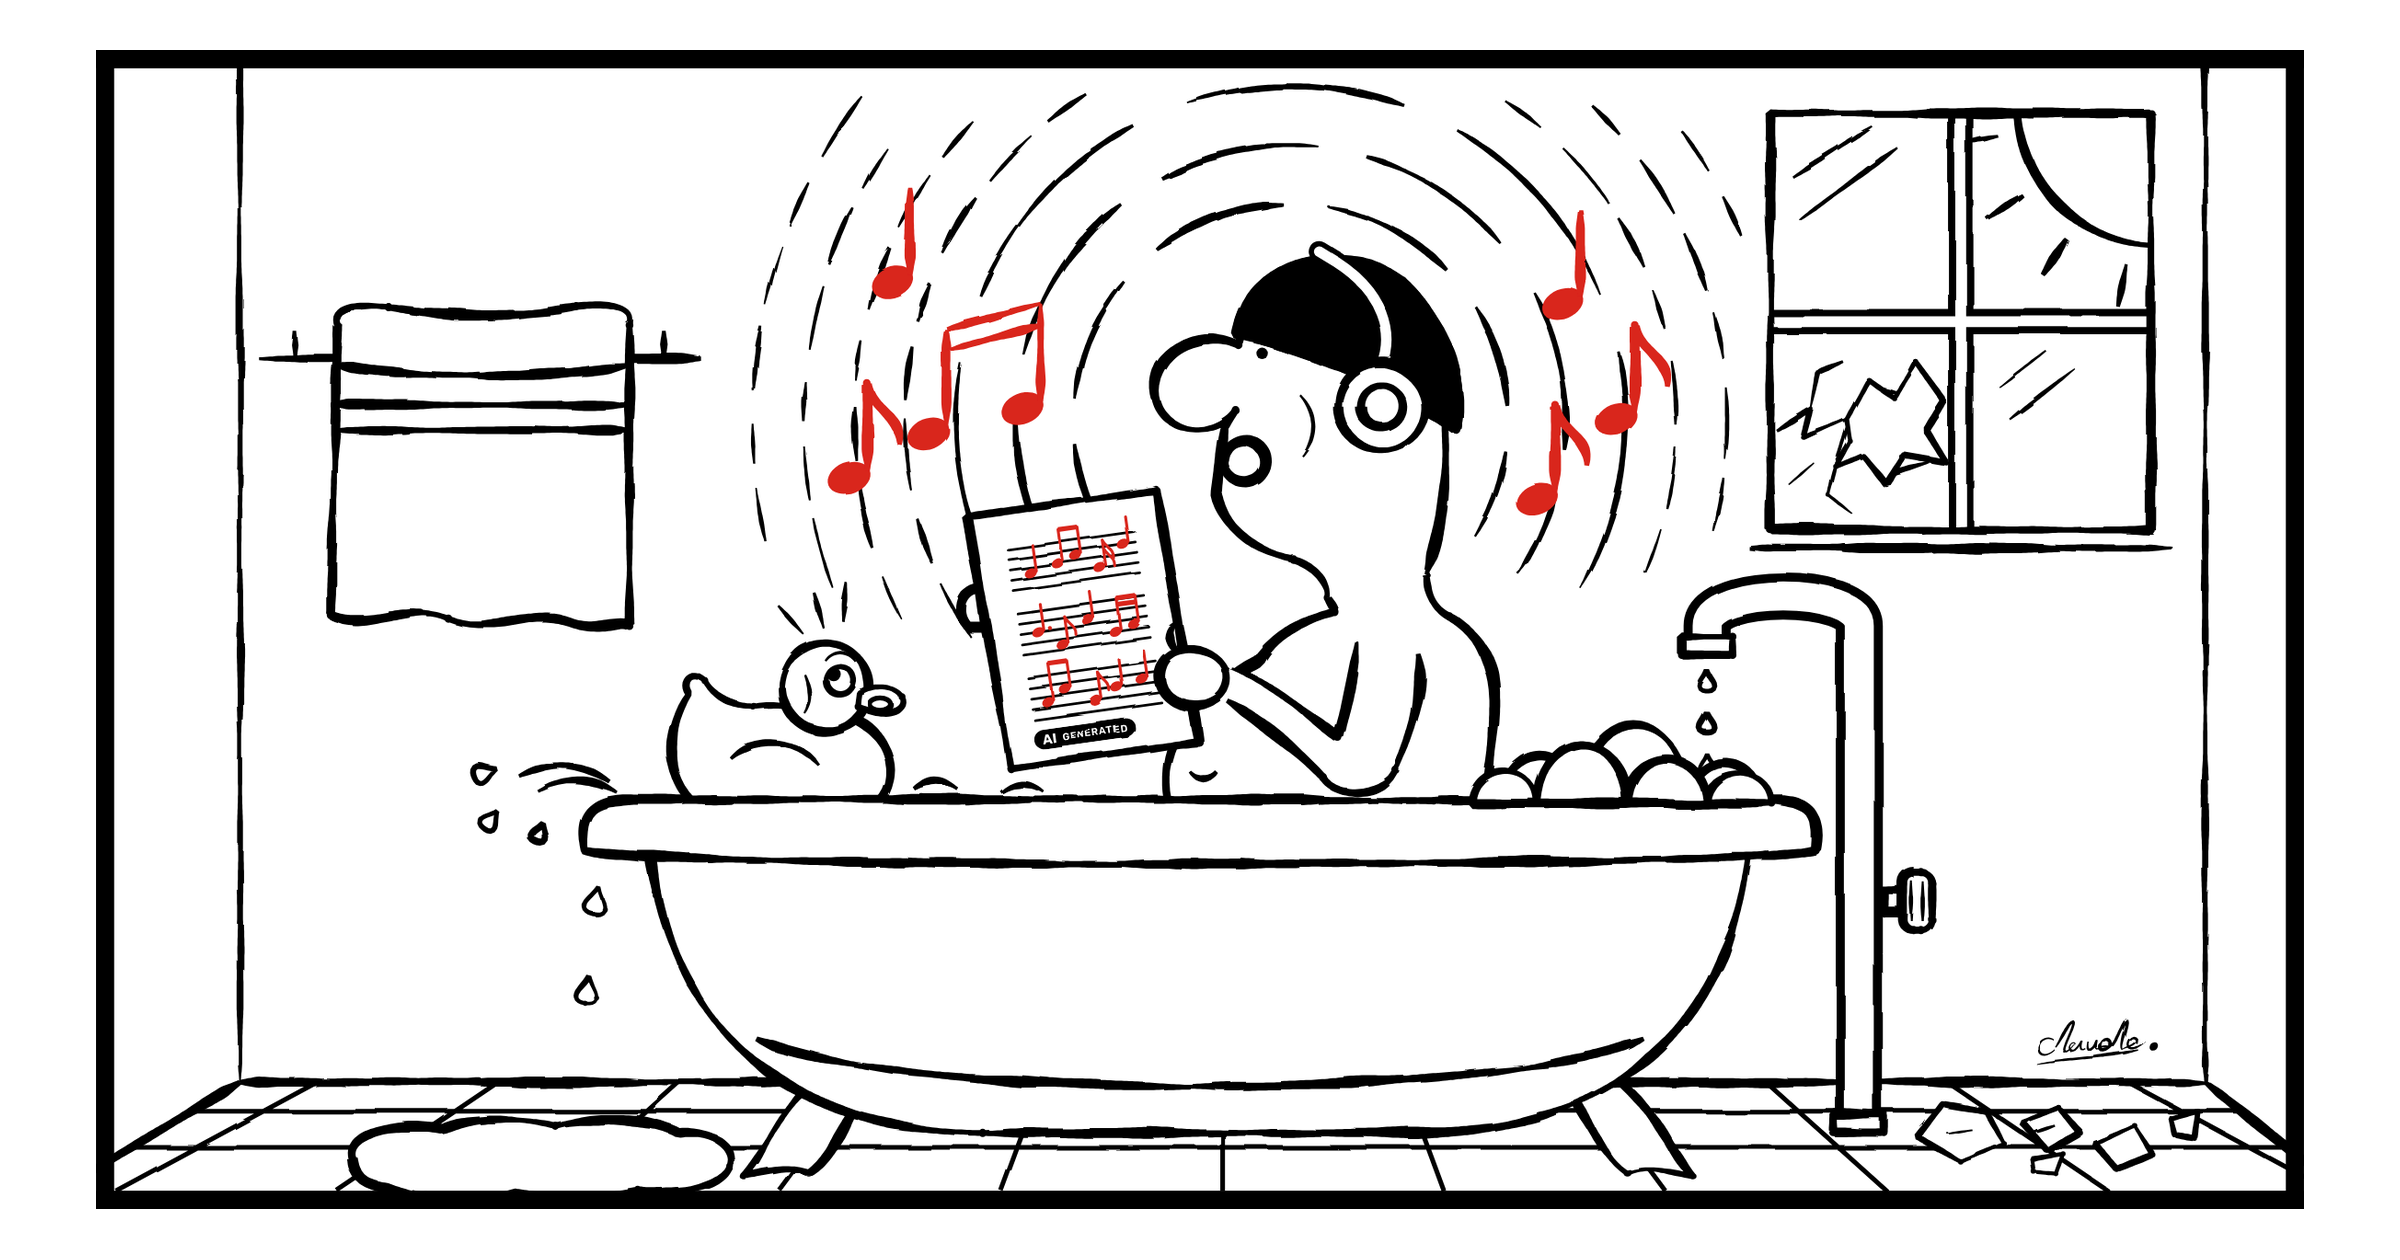
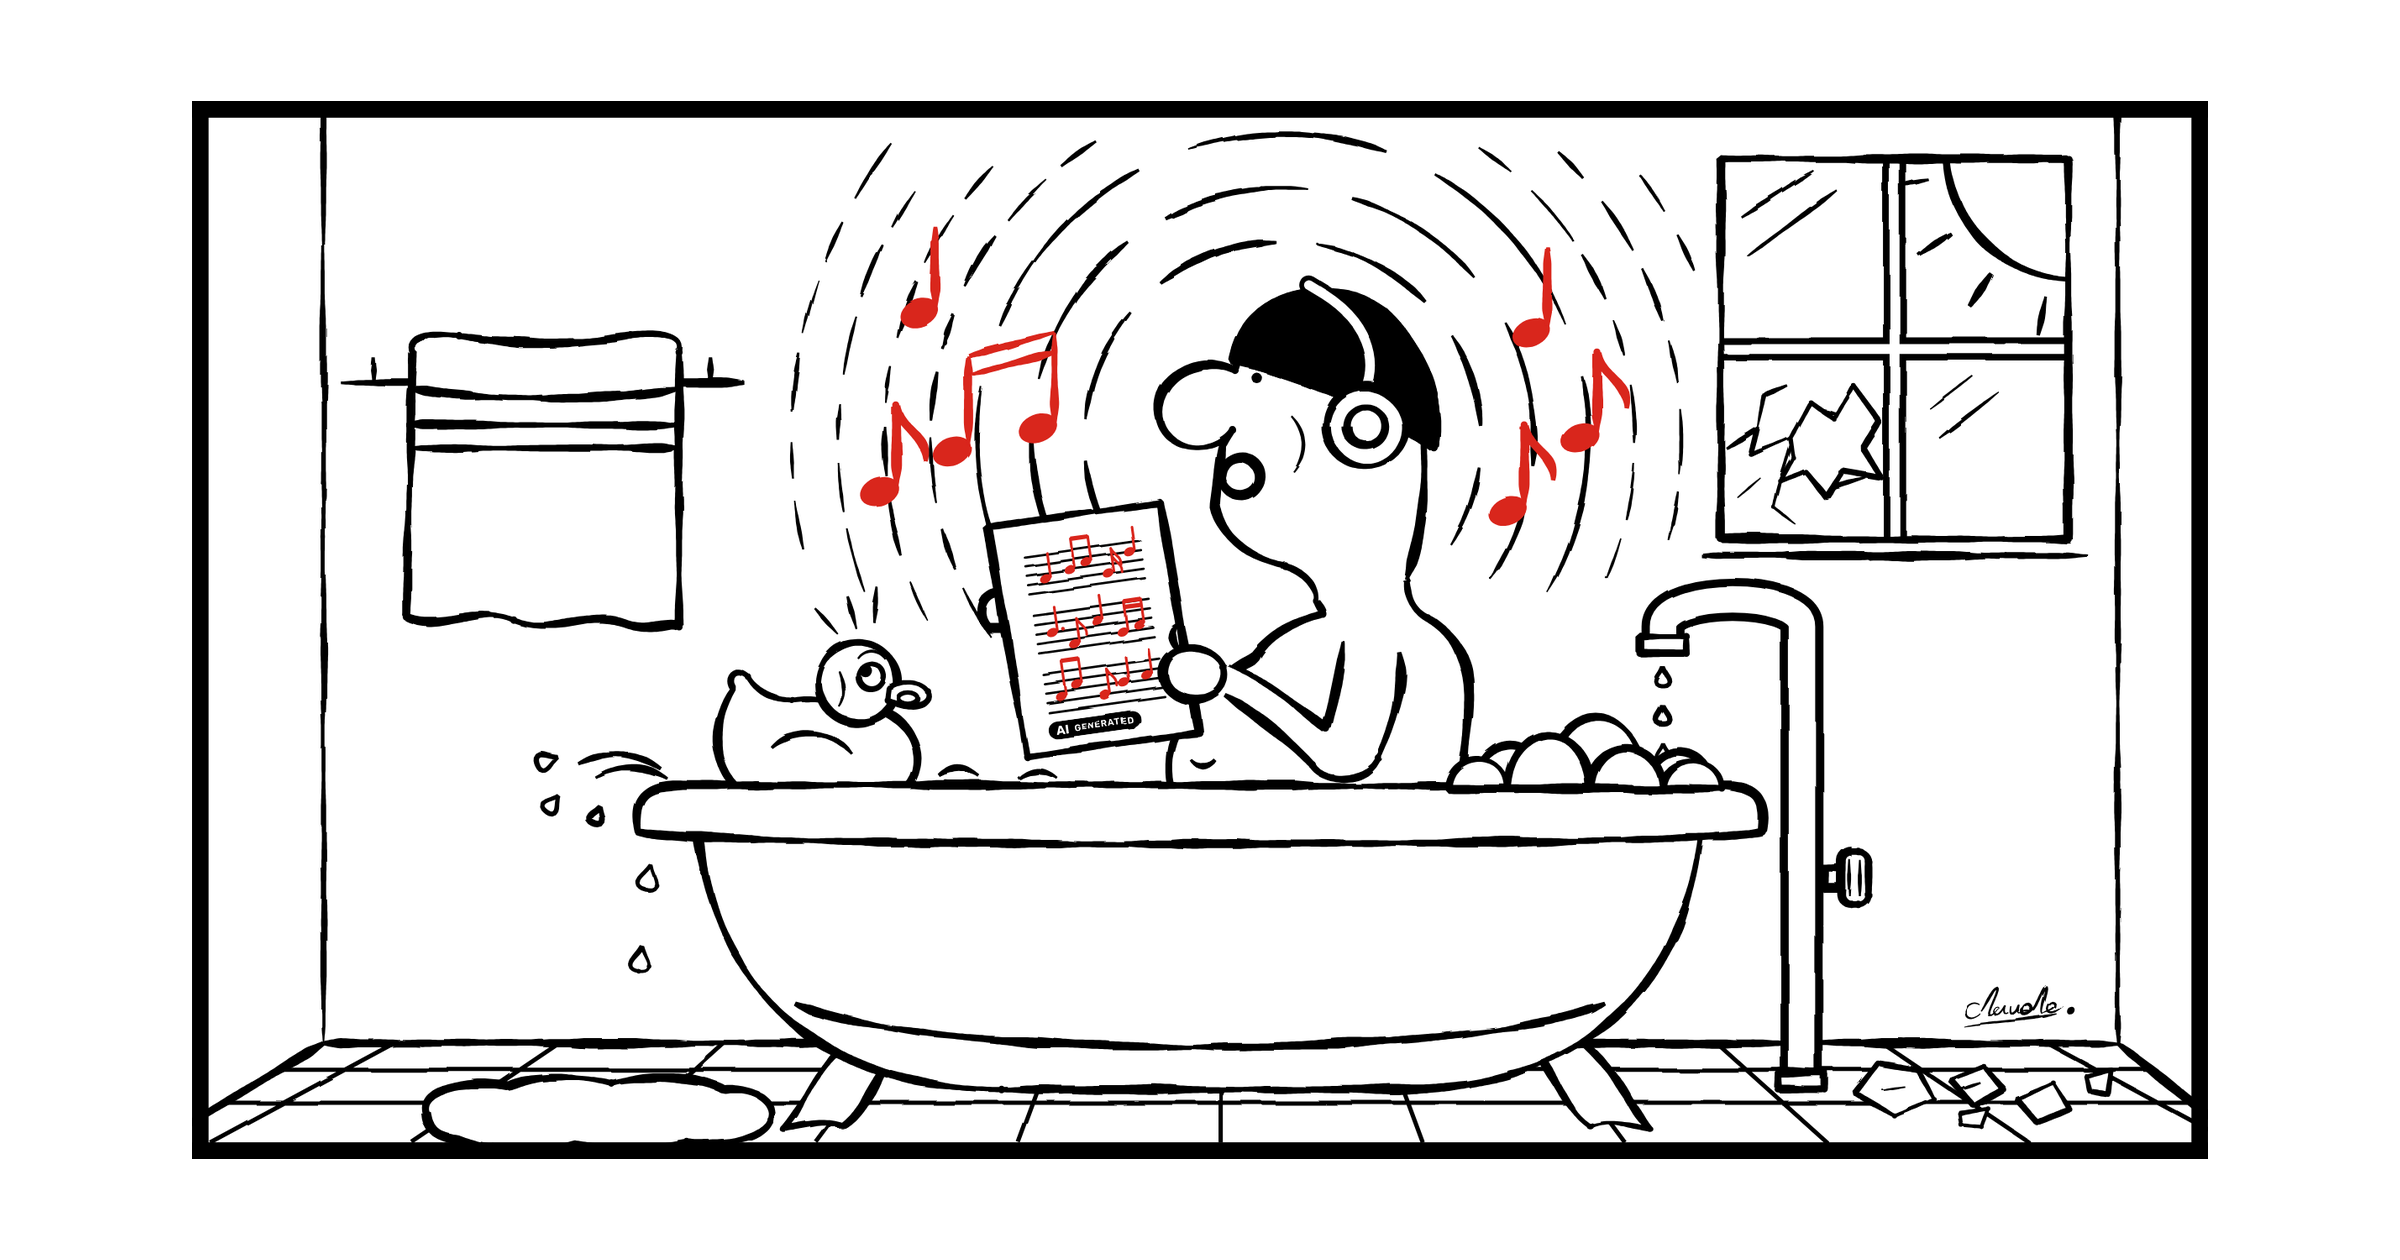
Link preview: wider white margin (84 %)

Changed region(s): [[0.0312, 0.031, 0.9688, 0.9595]]

diff --git a/docs/de/index.html b/docs/de/index.html
@@ -17,7 +17,7 @@
 <meta property="og:url" content="https://choir-practice-skill.pages.dev/de/">
 <meta property="og:locale" content="de_DE">
 <meta property="og:locale:alternate" content="en_US">
-<meta property="og:image" content="https://choir-practice-skill.pages.dev/img/og.png?v=ada567d1">
+<meta property="og:image" content="https://choir-practice-skill.pages.dev/img/og.png?v=a8352f46">
 <meta property="og:image:type" content="image/png">
 <meta property="og:image:width" content="2400">
 <meta property="og:image:height" content="1260">
@@ -25,7 +25,7 @@
 <meta name="twitter:card" content="summary_large_image">
 <meta name="twitter:title" content="choir-practice Skill – Deine Chorstimme. Deine Noten. Überall lesen, hören und singen.">
 <meta name="twitter:description" content="Dokumentation eines agentischen KI-Musik-Workflows und -Skills entwickelt für und mit Claude Code als privates Code-Experiment. Es ist nur ein „Proof of Concept“. Aus Chornoten entsteht ein „KI-geprüftes“ ZIP, in dem sich für jede Stimme 10 Aufnahmen zum Üben befinden.">
-<meta name="twitter:image" content="https://choir-practice-skill.pages.dev/img/og.png?v=ada567d1">
+<meta name="twitter:image" content="https://choir-practice-skill.pages.dev/img/og.png?v=a8352f46">
 <meta name="twitter:image:alt" content="Ein Mann mit Kopfhörern steht in einer alten Badewanne und singt vom Notenblatt, neben ihm schwimmt eine Quietscheente, rote Noten schweben im Raum">
 <link rel="icon" href="../img/favicon.svg?v=3c3022a9" type="image/svg+xml">
 <link rel="icon" href="../favicon.ico" sizes="32x32">
@@ -48,7 +48,7 @@
  "operatingSystem": "Claude (skill)",
  "image": {
   "@type": "ImageObject",
-  "url": "https://choir-practice-skill.pages.dev/img/og.png?v=ada567d1",
+  "url": "https://choir-practice-skill.pages.dev/img/og.png?v=a8352f46",
   "width": 2400,
   "height": 1260,
   "caption": "Ein Mann mit Kopfhörern steht in einer alten Badewanne und singt vom Notenblatt, neben ihm schwimmt eine Quietscheente, rote Noten schweben im Raum"

diff --git a/docs/en/index.html b/docs/en/index.html
@@ -17,7 +17,7 @@
 <meta property="og:url" content="https://choir-practice-skill.pages.dev/en/">
 <meta property="og:locale" content="en_US">
 <meta property="og:locale:alternate" content="de_DE">
-<meta property="og:image" content="https://choir-practice-skill.pages.dev/img/og.png?v=ada567d1">
+<meta property="og:image" content="https://choir-practice-skill.pages.dev/img/og.png?v=a8352f46">
 <meta property="og:image:type" content="image/png">
 <meta property="og:image:width" content="2400">
 <meta property="og:image:height" content="1260">
@@ -25,7 +25,7 @@
 <meta name="twitter:card" content="summary_large_image">
 <meta name="twitter:title" content="choir-practice Skill – Your voice. Your sheet music. Read, listen, and sing anywhere.">
 <meta name="twitter:description" content="Documentation of an agentic AI music workflow and skill developed for and with Claude Code as a private code experiment. It is only a “proof of concept”. A choir score goes in, and an “AI-checked” ZIP comes out with 10 practice recordings for every voice.">
-<meta name="twitter:image" content="https://choir-practice-skill.pages.dev/img/og.png?v=ada567d1">
+<meta name="twitter:image" content="https://choir-practice-skill.pages.dev/img/og.png?v=a8352f46">
 <meta name="twitter:image:alt" content="A man with headphones stands in an old bathtub and sings from a sheet of music, a rubber duck floats beside him, red notes drift through the room">
 <link rel="icon" href="../img/favicon.svg?v=3c3022a9" type="image/svg+xml">
 <link rel="icon" href="../favicon.ico" sizes="32x32">
@@ -48,7 +48,7 @@
  "operatingSystem": "Claude (skill)",
  "image": {
   "@type": "ImageObject",
-  "url": "https://choir-practice-skill.pages.dev/img/og.png?v=ada567d1",
+  "url": "https://choir-practice-skill.pages.dev/img/og.png?v=a8352f46",
   "width": 2400,
   "height": 1260,
   "caption": "A man with headphones stands in an old bathtub and sings from a sheet of music, a rubber duck floats beside him, red notes drift through the room"

diff --git a/CHANGELOG.md b/CHANGELOG.md
@@ -5,7 +5,7 @@ All notable changes to the skill. Newest first. Versions follow [SemVer](https:/
 ## Unreleased
 
 ## 1.2.0 – 2026-11-01
-- Link preview image (`docs/img/og.png`): the drawing sits at 92 % on a white margin, so messengers that round the corners (iMessage) no longer cut off the black frame; `site/header/build.sh` pads the image the same way
+- Link preview image (`docs/img/og.png`): the drawing sits at 84 % on a white margin, so messengers that round the corners (iMessage) no longer cut off the black frame; `site/header/build.sh` pads the image the same way
 - Build and release check `check_version.py`: VERSION, newest CHANGELOG section, session handoff, version in the folder name and VERSION inside the built `.skill` must agree; runs in `release.py`, `save_skill_version.py`, the Checks workflow and the Release workflow (together with the tag)
 - Scripts: short English comments on the non-obvious parts of the build, audio, layout and website scripts (no change in behaviour)
 - Headline "Deine Chorstimme. Deine Noten. Überall lesen, hören und singen." (en: "Your voice. Your sheet music. Read, listen, and sing anywhere.") on the website (H1 and page title) and in the READMEs

diff --git a/choir-practice/CHANGELOG.md b/choir-practice/CHANGELOG.md
@@ -5,7 +5,7 @@ All notable changes to the skill. Newest first. Versions follow [SemVer](https:/
 ## Unreleased
 
 ## 1.2.0 – 2026-11-01
-- Link preview image (`docs/img/og.png`): the drawing sits at 92 % on a white margin, so messengers that round the corners (iMessage) no longer cut off the black frame; `site/header/build.sh` pads the image the same way
+- Link preview image (`docs/img/og.png`): the drawing sits at 84 % on a white margin, so messengers that round the corners (iMessage) no longer cut off the black frame; `site/header/build.sh` pads the image the same way
 - Build and release check `check_version.py`: VERSION, newest CHANGELOG section, session handoff, version in the folder name and VERSION inside the built `.skill` must agree; runs in `release.py`, `save_skill_version.py`, the Checks workflow and the Release workflow (together with the tag)
 - Scripts: short English comments on the non-obvious parts of the build, audio, layout and website scripts (no change in behaviour)
 - Headline "Deine Chorstimme. Deine Noten. Überall lesen, hören und singen." (en: "Your voice. Your sheet music. Read, listen, and sing anywhere.") on the website (H1 and page title) and in the READMEs

diff --git a/site/header/README.md b/site/header/README.md
@@ -14,7 +14,7 @@
 |---|---|---|
 | [`docs/img/header.png`](../../docs/img/header.png) | website banner and README, light (`<picture>`, shown at 1280 x 640; small palette) | 3840 x 1920 |
 | [`docs/img/header-dark.png`](../../docs/img/header-dark.png) | the same, dark | 3840 x 1920 |
-| [`docs/img/og.png`](../../docs/img/og.png) | link preview (Open Graph, light) | 2400 x 1260 (drawing at 92 % on white, so rounded corners do not cut the frame) |
+| [`docs/img/og.png`](../../docs/img/og.png) | link preview (Open Graph, light) | 2400 x 1260 (drawing at 84 % on white, so rounded corners do not cut the frame) |
 
 Only if something else changes: [`site/build_site.py`](../../site/build_site.py) (alt text `og_alt`, og image size), [`docs/index.html`](../../docs/index.html) and [`docs/en/index.html`](../../docs/en/index.html) (generated), [`CHANGELOG.md`](../../CHANGELOG.md) and [`choir-practice/CHANGELOG.md`](../../choir-practice/CHANGELOG.md) (identical copies).
 
